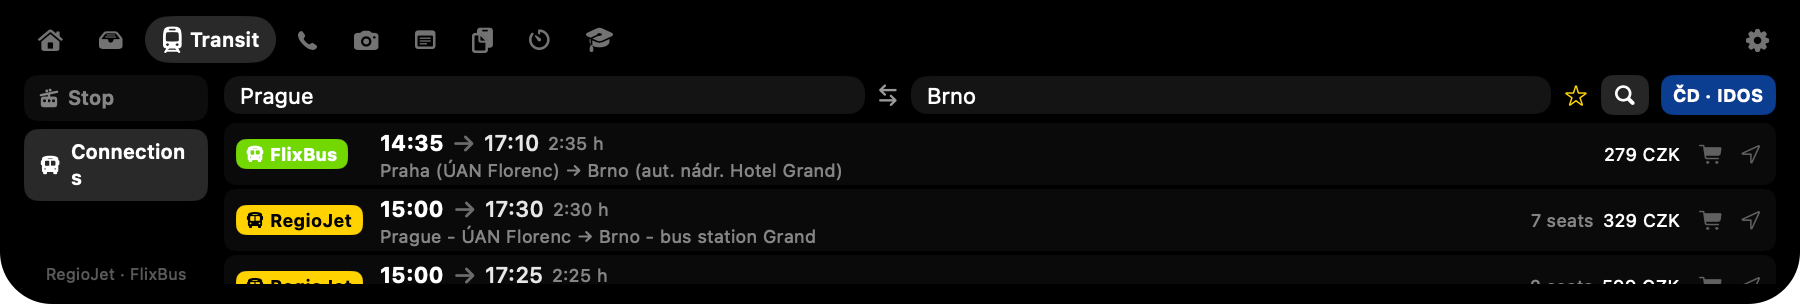
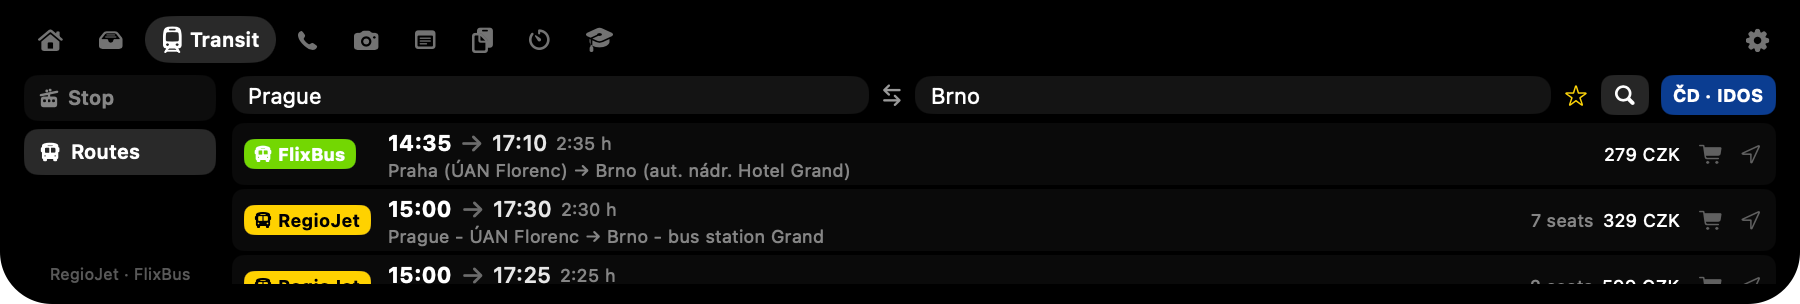
Transit: 'Routes' label, wider mode column; English demo frame

diff --git a/Sources/NotchIsland/Modules/TransitView.swift b/Sources/NotchIsland/Modules/TransitView.swift
@@ -22,7 +22,7 @@ struct TransitView: View {
                 Spacer()
                 Text(mode == .stop ? L("PID · živě") : L("RegioJet · FlixBus")).font(.system(size: 8)).foregroundStyle(.white.opacity(0.35))
             }
-            .frame(width: 92)
+            .frame(width: 96)
             Group {
                 switch mode {
                 case .stop: StopBoardView()
